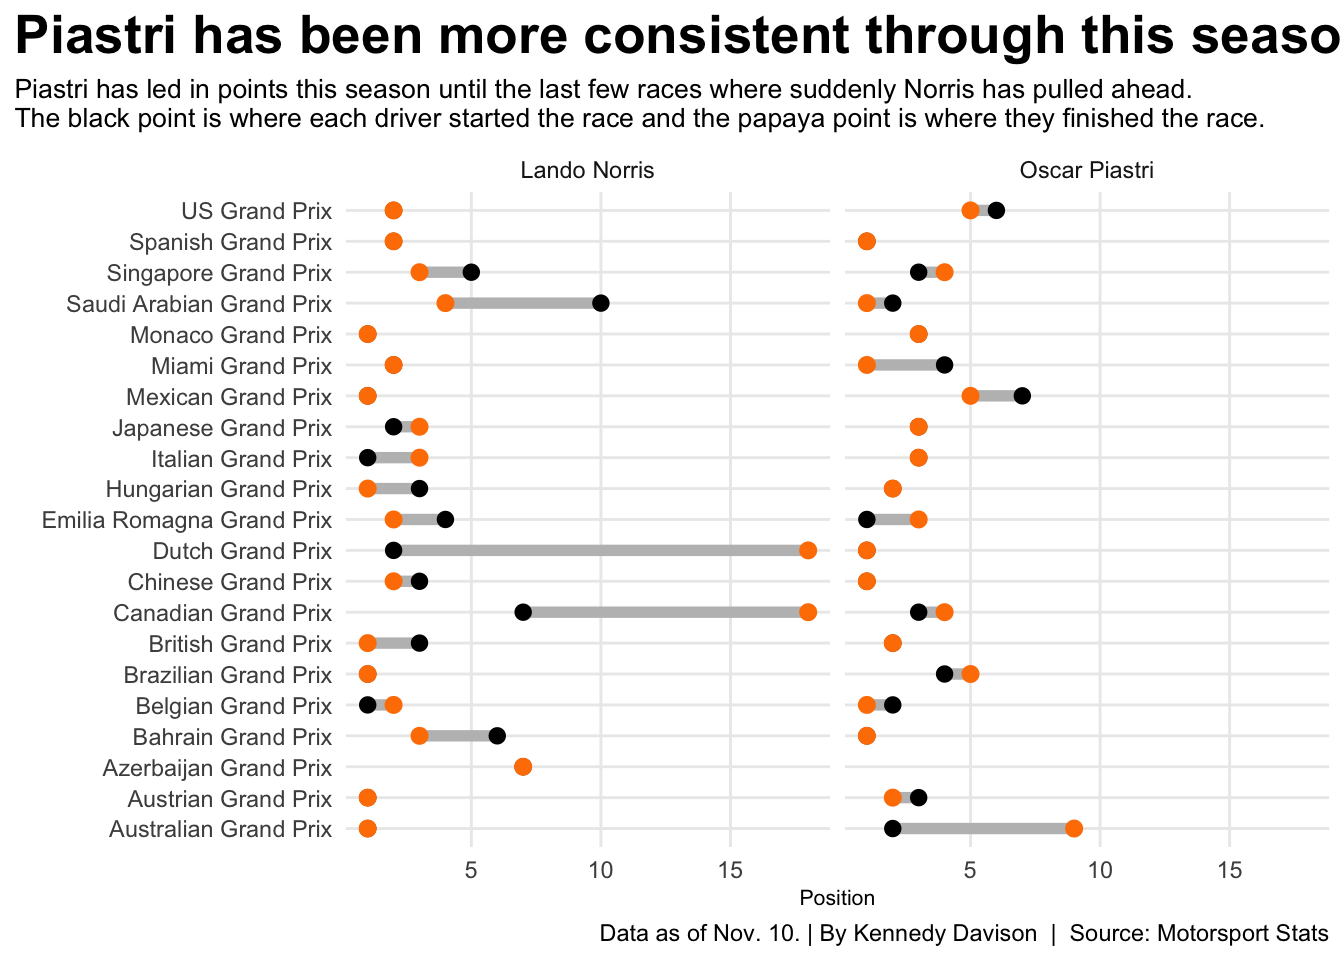
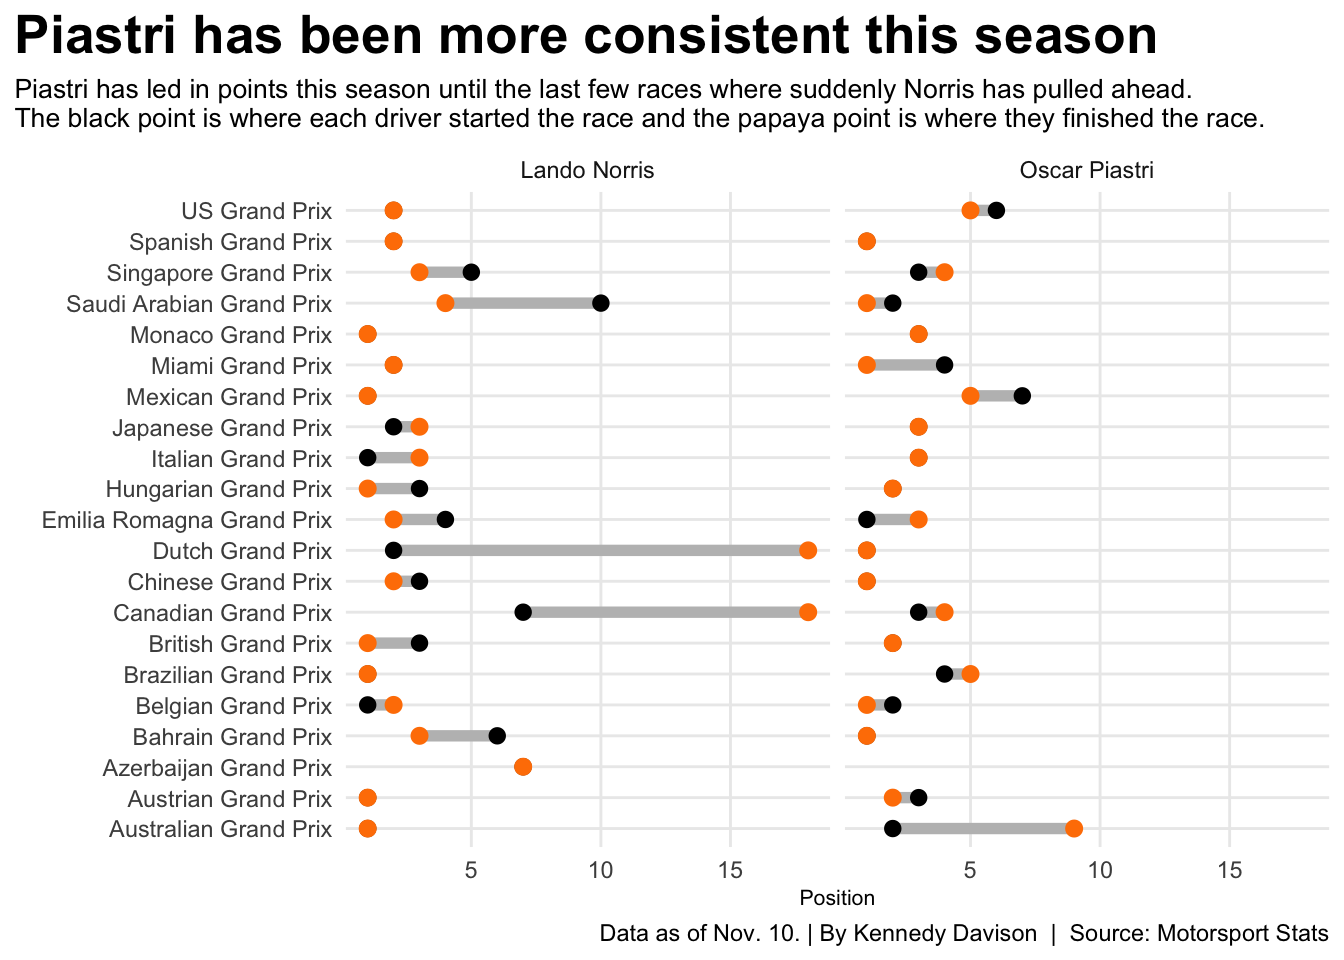
blog 1 edit 1

Changed region(s): [[0.6875, 0.0, 1.0, 0.0625]]

diff --git a/posts/who-plays-most-exciting-games/index.html b/posts/who-plays-most-exciting-games/index.html
@@ -251,7 +251,7 @@ pre > code.sourceCode > span > a:first-child::before { text-decoration: underlin
 <span id="cb1-50"><a href="#cb1-50" aria-hidden="true" tabindex="-1"></a>  <span class="fu">labs</span>(</span>
 <span id="cb1-51"><a href="#cb1-51" aria-hidden="true" tabindex="-1"></a>    <span class="at">x=</span><span class="st">"Position"</span>, </span>
 <span id="cb1-52"><a href="#cb1-52" aria-hidden="true" tabindex="-1"></a>    <span class="at">y=</span><span class="st">""</span>, </span>
-<span id="cb1-53"><a href="#cb1-53" aria-hidden="true" tabindex="-1"></a>    <span class="at">title=</span><span class="st">"Piastri has been more consistent through this season"</span>, </span>
+<span id="cb1-53"><a href="#cb1-53" aria-hidden="true" tabindex="-1"></a>    <span class="at">title=</span><span class="st">"Piastri has been more consistent this season"</span>, </span>
 <span id="cb1-54"><a href="#cb1-54" aria-hidden="true" tabindex="-1"></a>    <span class="at">subtitle=</span><span class="st">"Piastri has led in points this season until the last few races where suddenly Norris has pulled ahead. </span><span class="sc">\n</span><span class="st">The black point is where each driver started the race and the papaya point is where they finished the race. "</span>, </span>
 <span id="cb1-55"><a href="#cb1-55" aria-hidden="true" tabindex="-1"></a>    <span class="at">caption=</span><span class="st">"Data as of Nov. 10. | By Kennedy Davison  |  Source: Motorsport Stats"</span></span>
 <span id="cb1-56"><a href="#cb1-56" aria-hidden="true" tabindex="-1"></a>    ) <span class="sc">+</span></span>
@@ -353,23 +353,23 @@ pre > code.sourceCode > span > a:first-child::before { text-decoration: underlin
 <span id="cb2-75"><a href="#cb2-75" aria-hidden="true" tabindex="-1"></a>  )</span></code></pre></div><button title="Copy to Clipboard" class="code-copy-button"><i class="bi"></i></button></div>
 </details>
 <div class="cell-output-display">
-<div id="peeonqobta" style="padding-left:0px;padding-right:0px;padding-top:10px;padding-bottom:10px;overflow-x:auto;overflow-y:auto;width:auto;height:auto;">
-<style>#peeonqobta table {
+<div id="xyywqkcqvd" style="padding-left:0px;padding-right:0px;padding-top:10px;padding-bottom:10px;overflow-x:auto;overflow-y:auto;width:auto;height:auto;">
+<style>#xyywqkcqvd table {
   font-family: system-ui, 'Segoe UI', Roboto, Helvetica, Arial, sans-serif, 'Apple Color Emoji', 'Segoe UI Emoji', 'Segoe UI Symbol', 'Noto Color Emoji';
   -webkit-font-smoothing: antialiased;
   -moz-osx-font-smoothing: grayscale;
 }
 
-#peeonqobta thead, #peeonqobta tbody, #peeonqobta tfoot, #peeonqobta tr, #peeonqobta td, #peeonqobta th {
+#xyywqkcqvd thead, #xyywqkcqvd tbody, #xyywqkcqvd tfoot, #xyywqkcqvd tr, #xyywqkcqvd td, #xyywqkcqvd th {
   border-style: none;
 }
 
-#peeonqobta p {
+#xyywqkcqvd p {
   margin: 0;
   padding: 0;
 }
 
-#peeonqobta .gt_table {
+#xyywqkcqvd .gt_table {
   display: table;
   border-collapse: collapse;
   line-height: normal;
@@ -395,12 +395,12 @@ pre > code.sourceCode > span > a:first-child::before { text-decoration: underlin
   border-left-color: #D3D3D3;
 }
 
-#peeonqobta .gt_caption {
+#xyywqkcqvd .gt_caption {
   padding-top: 4px;
   padding-bottom: 4px;
 }
 
-#peeonqobta .gt_title {
+#xyywqkcqvd .gt_title {
   color: #333333;
   font-size: 125%;
   font-weight: initial;
@@ -412,7 +412,7 @@ pre > code.sourceCode > span > a:first-child::before { text-decoration: underlin
   border-bottom-width: 0;
 }
 
-#peeonqobta .gt_subtitle {
+#xyywqkcqvd .gt_subtitle {
   color: #333333;
   font-size: 85%;
   font-weight: initial;
@@ -424,7 +424,7 @@ pre > code.sourceCode > span > a:first-child::before { text-decoration: underlin
   border-top-width: 0;
 }
 
-#peeonqobta .gt_heading {
+#xyywqkcqvd .gt_heading {
   background-color: #FFFFFF;
   text-align: center;
   border-bottom-color: #FFFFFF;
@@ -436,13 +436,13 @@ pre > code.sourceCode > span > a:first-child::before { text-decoration: underlin
   border-right-color: #D3D3D3;
 }
 
-#peeonqobta .gt_bottom_border {
+#xyywqkcqvd .gt_bottom_border {
   border-bottom-style: none;
   border-bottom-width: 2px;
   border-bottom-color: #D3D3D3;
 }
 
-#peeonqobta .gt_col_headings {
+#xyywqkcqvd .gt_col_headings {
   border-top-style: none;
   border-top-width: 2px;
   border-top-color: #D3D3D3;
@@ -457,7 +457,7 @@ pre > code.sourceCode > span > a:first-child::before { text-decoration: underlin
   border-right-color: #D3D3D3;
 }
 
-#peeonqobta .gt_col_heading {
+#xyywqkcqvd .gt_col_heading {
   color: #333333;
   background-color: #FFFFFF;
   font-size: 100%;
@@ -477,7 +477,7 @@ pre > code.sourceCode > span > a:first-child::before { text-decoration: underlin
   overflow-x: hidden;
 }
 
-#peeonqobta .gt_column_spanner_outer {
+#xyywqkcqvd .gt_column_spanner_outer {
   color: #333333;
   background-color: #FFFFFF;
   font-size: 100%;
@@ -489,15 +489,15 @@ pre > code.sourceCode > span > a:first-child::before { text-decoration: underlin
   padding-right: 4px;
 }
 
-#peeonqobta .gt_column_spanner_outer:first-child {
+#xyywqkcqvd .gt_column_spanner_outer:first-child {
   padding-left: 0;
 }
 
-#peeonqobta .gt_column_spanner_outer:last-child {
+#xyywqkcqvd .gt_column_spanner_outer:last-child {
   padding-right: 0;
 }
 
-#peeonqobta .gt_column_spanner {
+#xyywqkcqvd .gt_column_spanner {
   border-bottom-style: none;
   border-bottom-width: 2px;
   border-bottom-color: #D3D3D3;
@@ -509,11 +509,11 @@ pre > code.sourceCode > span > a:first-child::before { text-decoration: underlin
   width: 100%;
 }
 
-#peeonqobta .gt_spanner_row {
+#xyywqkcqvd .gt_spanner_row {
   border-bottom-style: hidden;
 }
 
-#peeonqobta .gt_group_heading {
+#xyywqkcqvd .gt_group_heading {
   padding-top: 8px;
   padding-bottom: 8px;
   padding-left: 5px;
@@ -539,7 +539,7 @@ pre > code.sourceCode > span > a:first-child::before { text-decoration: underlin
   text-align: left;
 }
 
-#peeonqobta .gt_empty_group_heading {
+#xyywqkcqvd .gt_empty_group_heading {
   padding: 0.5px;
   color: #333333;
   background-color: #FFFFFF;
@@ -554,15 +554,15 @@ pre > code.sourceCode > span > a:first-child::before { text-decoration: underlin
   vertical-align: middle;
 }
 
-#peeonqobta .gt_from_md > :first-child {
+#xyywqkcqvd .gt_from_md > :first-child {
   margin-top: 0;
 }
 
-#peeonqobta .gt_from_md > :last-child {
+#xyywqkcqvd .gt_from_md > :last-child {
   margin-bottom: 0;
 }
 
-#peeonqobta .gt_row {
+#xyywqkcqvd .gt_row {
   padding-top: 8px;
   padding-bottom: 8px;
   padding-left: 5px;
@@ -581,7 +581,7 @@ pre > code.sourceCode > span > a:first-child::before { text-decoration: underlin
   overflow-x: hidden;
 }
 
-#peeonqobta .gt_stub {
+#xyywqkcqvd .gt_stub {
   color: #333333;
   background-color: #FFFFFF;
   font-size: 100%;
@@ -594,7 +594,7 @@ pre > code.sourceCode > span > a:first-child::before { text-decoration: underlin
   padding-right: 5px;
 }
 
-#peeonqobta .gt_stub_row_group {
+#xyywqkcqvd .gt_stub_row_group {
   color: #333333;
   background-color: #FFFFFF;
   font-size: 100%;
@@ -608,15 +608,15 @@ pre > code.sourceCode > span > a:first-child::before { text-decoration: underlin
   vertical-align: top;
 }
 
-#peeonqobta .gt_row_group_first td {
+#xyywqkcqvd .gt_row_group_first td {
   border-top-width: 2px;
 }
 
-#peeonqobta .gt_row_group_first th {
+#xyywqkcqvd .gt_row_group_first th {
   border-top-width: 2px;
 }
 
-#peeonqobta .gt_summary_row {
+#xyywqkcqvd .gt_summary_row {
   color: #333333;
   background-color: #FFFFFF;
   text-transform: inherit;
@@ -626,16 +626,16 @@ pre > code.sourceCode > span > a:first-child::before { text-decoration: underlin
   padding-right: 5px;
 }
 
-#peeonqobta .gt_first_summary_row {
+#xyywqkcqvd .gt_first_summary_row {
   border-top-style: none;
   border-top-color: #D3D3D3;
 }
 
-#peeonqobta .gt_first_summary_row.thick {
+#xyywqkcqvd .gt_first_summary_row.thick {
   border-top-width: 2px;
 }
 
-#peeonqobta .gt_last_summary_row {
+#xyywqkcqvd .gt_last_summary_row {
   padding-top: 8px;
   padding-bottom: 8px;
   padding-left: 5px;
@@ -645,7 +645,7 @@ pre > code.sourceCode > span > a:first-child::before { text-decoration: underlin
   border-bottom-color: #D3D3D3;
 }
 
-#peeonqobta .gt_grand_summary_row {
+#xyywqkcqvd .gt_grand_summary_row {
   color: #333333;
   background-color: #FFFFFF;
   text-transform: inherit;
@@ -655,7 +655,7 @@ pre > code.sourceCode > span > a:first-child::before { text-decoration: underlin
   padding-right: 5px;
 }
 
-#peeonqobta .gt_first_grand_summary_row {
+#xyywqkcqvd .gt_first_grand_summary_row {
   padding-top: 8px;
   padding-bottom: 8px;
   padding-left: 5px;
@@ -665,7 +665,7 @@ pre > code.sourceCode > span > a:first-child::before { text-decoration: underlin
   border-top-color: #D3D3D3;
 }
 
-#peeonqobta .gt_last_grand_summary_row_top {
+#xyywqkcqvd .gt_last_grand_summary_row_top {
   padding-top: 8px;
   padding-bottom: 8px;
   padding-left: 5px;
@@ -675,11 +675,11 @@ pre > code.sourceCode > span > a:first-child::before { text-decoration: underlin
   border-bottom-color: #D3D3D3;
 }
 
-#peeonqobta .gt_striped {
+#xyywqkcqvd .gt_striped {
   background-color: rgba(128, 128, 128, 0.05);
 }
 
-#peeonqobta .gt_table_body {
+#xyywqkcqvd .gt_table_body {
   border-top-style: none;
   border-top-width: 2px;
   border-top-color: #D3D3D3;
@@ -688,7 +688,7 @@ pre > code.sourceCode > span > a:first-child::before { text-decoration: underlin
   border-bottom-color: #D3D3D3;
 }
 
-#peeonqobta .gt_footnotes {
+#xyywqkcqvd .gt_footnotes {
   color: #333333;
   background-color: #FFFFFF;
   border-bottom-style: none;
@@ -702,7 +702,7 @@ pre > code.sourceCode > span > a:first-child::before { text-decoration: underlin
   border-right-color: #D3D3D3;
 }
 
-#peeonqobta .gt_footnote {
+#xyywqkcqvd .gt_footnote {
   margin: 0px;
   font-size: 90%;
   padding-top: 4px;
@@ -711,7 +711,7 @@ pre > code.sourceCode > span > a:first-child::before { text-decoration: underlin
   padding-right: 5px;
 }
 
-#peeonqobta .gt_sourcenotes {
+#xyywqkcqvd .gt_sourcenotes {
   color: #333333;
   background-color: #FFFFFF;
   border-bottom-style: none;
@@ -725,7 +725,7 @@ pre > code.sourceCode > span > a:first-child::before { text-decoration: underlin
   border-right-color: #D3D3D3;
 }
 
-#peeonqobta .gt_sourcenote {
+#xyywqkcqvd .gt_sourcenote {
   font-size: 90%;
   padding-top: 4px;
   padding-bottom: 4px;
@@ -733,72 +733,72 @@ pre > code.sourceCode > span > a:first-child::before { text-decoration: underlin
   padding-right: 5px;
 }
 
-#peeonqobta .gt_left {
+#xyywqkcqvd .gt_left {
   text-align: left;
 }
 
-#peeonqobta .gt_center {
+#xyywqkcqvd .gt_center {
   text-align: center;
 }
 
-#peeonqobta .gt_right {
+#xyywqkcqvd .gt_right {
   text-align: right;
   font-variant-numeric: tabular-nums;
 }
 
-#peeonqobta .gt_font_normal {
+#xyywqkcqvd .gt_font_normal {
   font-weight: normal;
 }
 
-#peeonqobta .gt_font_bold {
+#xyywqkcqvd .gt_font_bold {
   font-weight: bold;
 }
 
-#peeonqobta .gt_font_italic {
+#xyywqkcqvd .gt_font_italic {
   font-style: italic;
 }
 
-#peeonqobta .gt_super {
+#xyywqkcqvd .gt_super {
   font-size: 65%;
 }
 
-#peeonqobta .gt_footnote_marks {
+#xyywqkcqvd .gt_footnote_marks {
   font-size: 75%;
   vertical-align: 0.4em;
   position: initial;
 }
 
-#peeonqobta .gt_asterisk {
+#xyywqkcqvd .gt_asterisk {
   font-size: 100%;
   vertical-align: 0;
 }
 
-#peeonqobta .gt_indent_1 {
+#xyywqkcqvd .gt_indent_1 {
   text-indent: 5px;
 }
 
-#peeonqobta .gt_indent_2 {
+#xyywqkcqvd .gt_indent_2 {
   text-indent: 10px;
 }
 
-#peeonqobta .gt_indent_3 {
+#xyywqkcqvd .gt_indent_3 {
   text-indent: 15px;
 }
 
-#peeonqobta .gt_indent_4 {
+#xyywqkcqvd .gt_indent_4 {
   text-indent: 20px;
 }
 
-#peeonqobta .gt_indent_5 {
+#xyywqkcqvd .gt_indent_5 {
   text-indent: 25px;
 }
 
-#peeonqobta .katex-display {
+#xyywqkcqvd .katex-display {
   display: inline-flex !important;
   margin-bottom: 0.75em !important;
 }
 
-#peeonqobta div.Reactable > div.rt-table > div.rt-thead > div.rt-tr.rt-tr-group-header > div.rt-th-group:after {
+#xyywqkcqvd div.Reactable > div.rt-table > div.rt-thead > div.rt-tr.rt-tr-group-header > div.rt-th-group:after {
   height: 0px !important;
 }
 </style>

diff --git a/index.html b/index.html
@@ -209,7 +209,7 @@ window.Quarto = {
 
 <div class="quarto-listing quarto-listing-container-default" id="listing-listing">
 <div class="list quarto-listing-default">
-<div class="quarto-post image-right" data-index="0" data-categories="Zm9ybXVsYW9uZSUyQ21jbGFyZW4lMkNtb3RvcnNwb3J0cw==" data-listing-date-sort="1763359200000" data-listing-file-modified-sort="1763139617055" data-listing-date-modified-sort="NaN" data-listing-reading-time-sort="6" data-listing-word-count-sort="1170">
+<div class="quarto-post image-right" data-index="0" data-categories="Zm9ybXVsYW9uZSUyQ21jbGFyZW4lMkNtb3RvcnNwb3J0cw==" data-listing-date-sort="1763359200000" data-listing-file-modified-sort="1763139780042" data-listing-date-modified-sort="NaN" data-listing-reading-time-sort="6" data-listing-word-count-sort="1169">
 <div class="thumbnail"><a href="./posts/who-plays-most-exciting-games/index.html" class="no-external">
 
 <img loading="lazy" src="./posts/who-plays-most-exciting-games/image.png" class="thumbnail-image">
